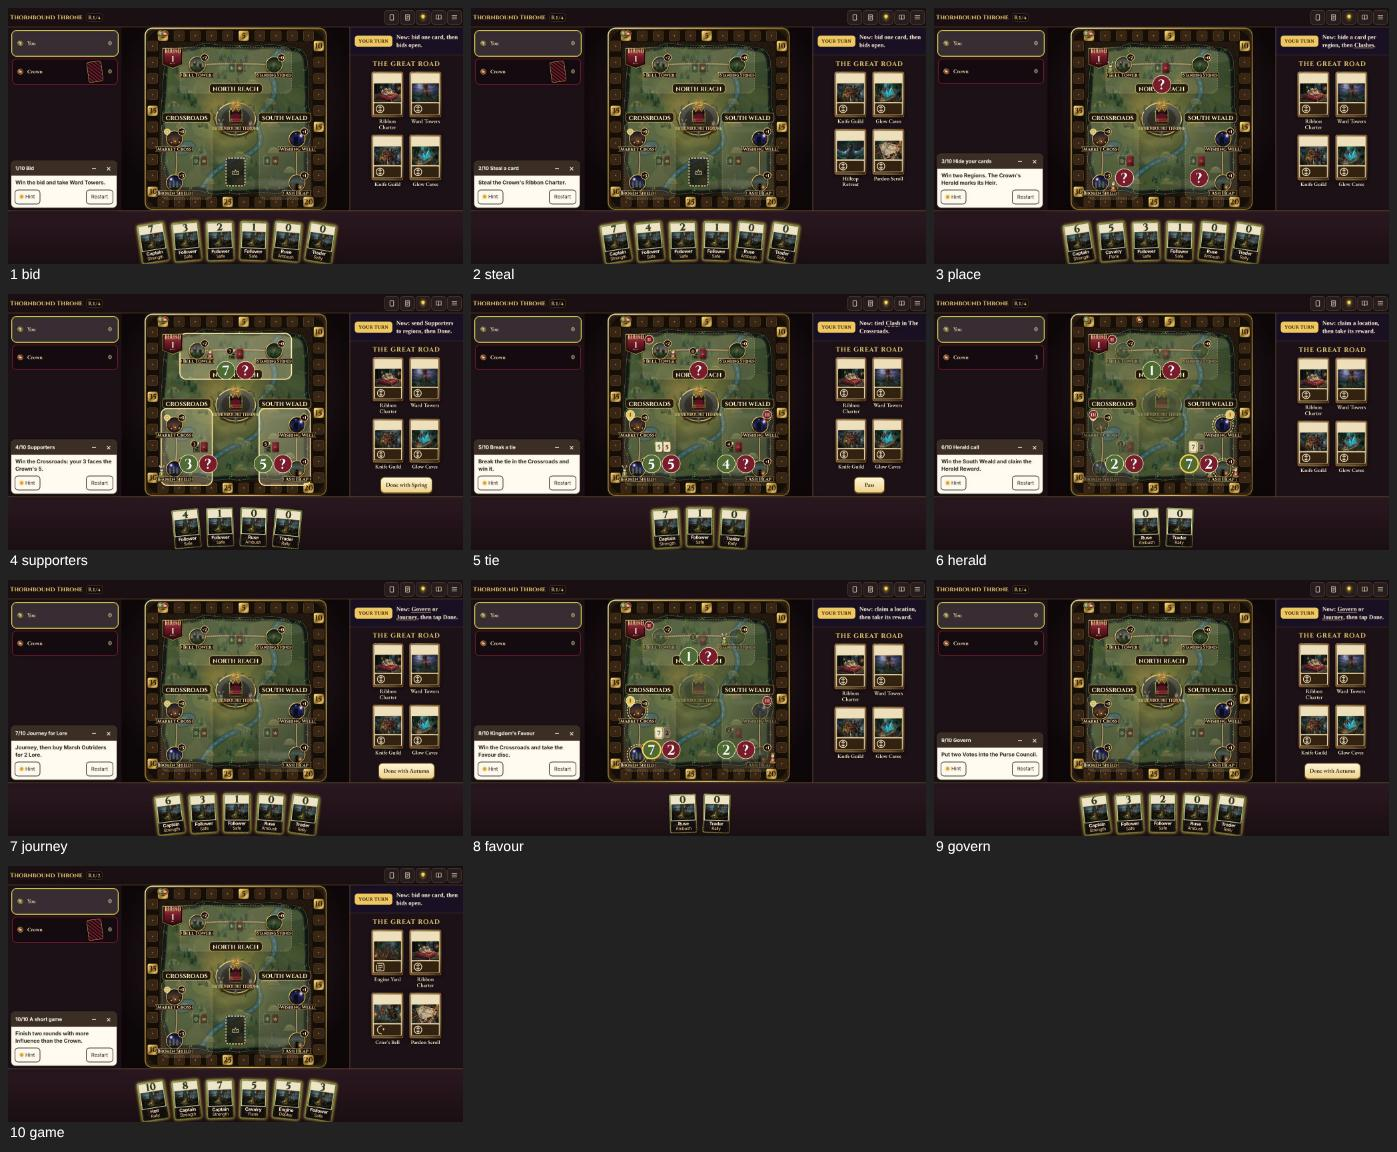
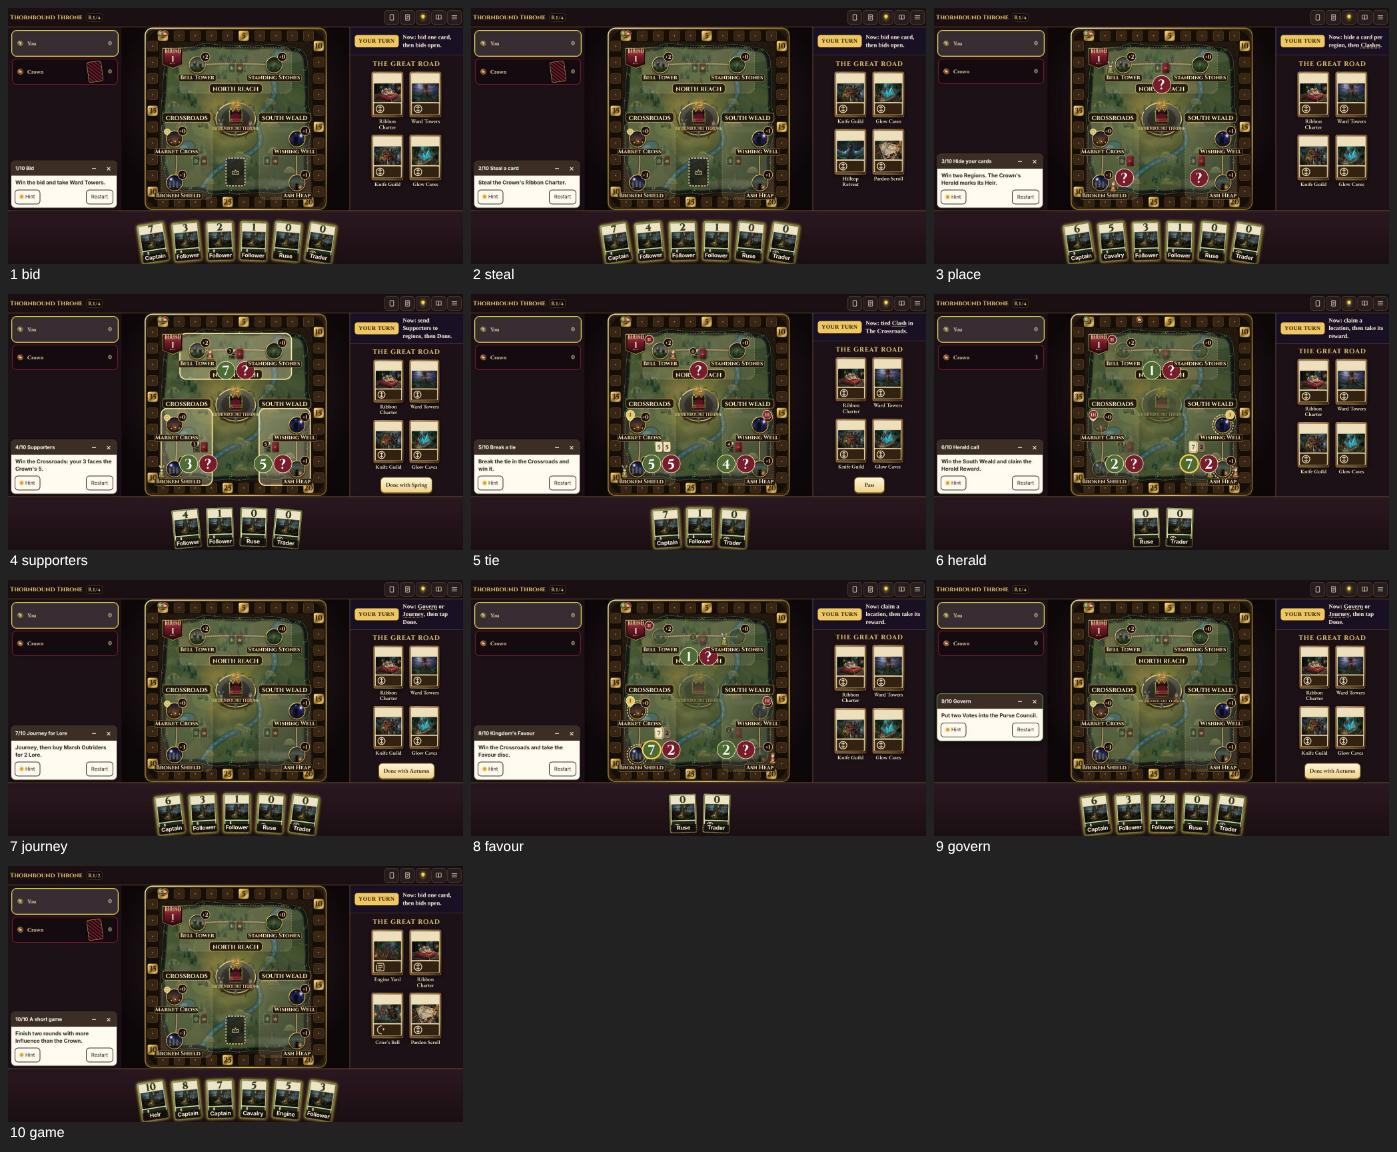
W754: thornbound readability pass: board labels and badges sized to screen, cost+name hand cards, larger bars and windows, pc windows clear of frame; proof sheets

diff --git a/games-src/thornbound/game/src/ui2.js b/games-src/thornbound/game/src/ui2.js
@@ -93,7 +93,8 @@ function sealOf(seat){const c=fcol(seat)||'';const m=/^#([0-9a-f]{6})$/i.exec(c)
 function drawOverlay(){const ov=MAP.ov,m=MAP.m;if(!ov||!m)return;const V=UI.V,f=[];
   // location reward coins (+1 / +2) and a favour disc marker
   for(let l=0;l<6;l++){const p=m.locPos(LOCID[l]),inf=DD.LOCS[l][2],k=UI.phone?1.2:1;
-    f.push('<g transform="translate('+(p.x+40*k)+' '+(p.y-40*k)+')"><circle r="'+(UI.phone?19:17)+'" fill="#1b0b10" stroke="#e8c867" stroke-width="2.6"/><text y="8" text-anchor="middle" font-family="'+TBKit.fonts.display+'" font-weight="700" font-size="'+(UI.phone?24:22)+'" fill="#fff0b8">+'+inf+'</text></g>');
+    const bf=Math.max(UI.phone?24:22,Math.ceil((UI.phone?14.5:16.5)*1000/(UI.bs||600))); // W754: influence badge reads >= 14px phone / 16px pc
+    f.push('<g transform="translate('+(p.x+(30+bf*.45)*k)+' '+(p.y-(30+bf*.45)*k)+')"><circle r="'+Math.round(bf*.82)+'" fill="#1b0b10" stroke="#e8c867" stroke-width="3"/><text y="'+Math.round(bf*.35)+'" text-anchor="middle" font-family="'+TBKit.fonts.display+'" font-weight="700" font-size="'+bf+'" fill="#fff0b8">+'+inf+'</text></g>');
     // council marker / favour
     if(l===2){const h=V.fav.h;const col=h>=0?fcol(h):'#e8c867';f.push('<g transform="translate('+(p.x-40*k)+' '+(p.y-40*k)+')"><circle r="'+(UI.phone?18:16)+'" fill="'+col+'" stroke="#fff3c4" stroke-width="2.6"/><path d="M0 -9 L2.6 -2.6 9 -2.6 3.8 1.6 5.8 8 0 4 -5.8 8 -3.8 1.6 -9 -2.6 -2.6 -2.6Z" fill="#fff6d0" stroke="#4a3208" stroke-width="1"/></g>')}
     // Kingdom Cards that sit on a Location
@@ -107,10 +108,10 @@ function drawOverlay(){const ov=MAP.ov,m=MAP.m;if(!ov||!m)return;const V=UI.V,f=
     for(let s=0;s<n;s++){const sp=V.pl[s].supp,cnt=sp.r[r]+sp.x[r];if(!cnt)continue;const c=s%cols,rw=Math.floor(s/cols);const x=S.cx-tw/2+c*(sw+gap)+sw/2,y=S.cy-th/2+rw*(sh+gap)+sh+(UI.phone?10:9);
       f.push('<g transform="translate('+x+' '+y+')"><circle r="'+(UI.phone?11:10)+'" fill="'+fcol(s)+'" stroke="#fff3c4" stroke-width="2"/><text y="5" text-anchor="middle" font-size="14" font-weight="700" fill="#fff" font-family="'+TBKit.fonts.display+'">'+cnt+'</text></g>')}}
   regionChips(f);
-  if(UI.phone&&(UI.bs||0)>=250){ // phones: the kit's banners are hidden, so every location gets a short name tag of its own
-    for(let l=0;l<6;l++){const P=LOCPOS[l],name=LOCN[l],fs=Math.max(36,Math.ceil(14.2*1000/(UI.bs||360))),words=name.split(' ');const lines=name.length*fs*.6+18>330&&words.length>1?[words[0],words.slice(1).join(' ')]:[name];
-      const wd=Math.max(...lines.map(t=>t.length))*fs*.6+18,ht=lines.length*fs+8;const cx=Math.max(wd/2+4,Math.min(996-wd/2,P[0])),top=P[1]+52;
-      f.push('<g class="locname"><rect x="'+Math.round(cx-wd/2)+'" y="'+top+'" width="'+Math.round(wd)+'" height="'+ht+'" rx="10" fill="#1d120b" fill-opacity=".82"/>'+lines.map((t,i)=>'<text x="'+Math.round(cx)+'" y="'+Math.round(top+(i+1)*fs-4)+'" text-anchor="middle" font-family="'+TBKit.fonts.display+'" font-weight="700" font-size="'+fs+'" fill="#f6e6b4">'+esc(t)+'</text>').join('')+'</g>')}}
+  if((UI.bs||0)>=250){ // the kit's banners are hidden (W754: on pc too, they were 13px), so every location gets a solid name tag of its own
+    for(let l=0;l<6;l++){const P=LOCPOS[l],name=LOCN[l],fs=Math.max(UI.phone?36:30,Math.ceil((UI.phone?14.5:16.5)*1000/(UI.bs||360))),words=name.split(' ');const lines=name.length*fs*.6+18>330&&words.length>1?[words[0],words.slice(1).join(' ')]:[name];
+      const wd=Math.max(...lines.map(t=>t.length))*fs*.6+18,ht=lines.length*fs+8;const cx=Math.max(wd/2+56,Math.min(944-wd/2,P[0])),top=P[1]+52; // W754: clear of the score track
+      f.push('<g class="locname"><rect x="'+Math.round(cx-wd/2)+'" y="'+top+'" width="'+Math.round(wd)+'" height="'+ht+'" rx="10" fill="#1d120b" fill-opacity=".9" stroke="#e8c867" stroke-opacity=".55" stroke-width="2"/>'+lines.map((t,i)=>'<text x="'+Math.round(cx)+'" y="'+Math.round(top+(i+1)*fs-4)+'" text-anchor="middle" font-family="'+TBKit.fonts.display+'" font-weight="700" font-size="'+fs+'" fill="#f6e6b4">'+esc(t)+'</text>').join('')+'</g>')}}
   ov.innerHTML=f.join('')}
 function setHl(ids,regs,rec){MAP.hl=ids||[];MAP.hlR=regs||[];MAP.rec=rec||{};applyHl()}
 function applyHl(){const m=MAP.m;if(!m)return;const sel=null;m.highlight(MAP.hl.map(l=>LOCID[l]));m.select(sel);
@@ -118,7 +119,7 @@ function applyHl(){const m=MAP.m;if(!m)return;const sel=null;m.highlight(MAP.hl.
   if(MAP.pan)MAP.pan.querySelectorAll('[data-reg]').forEach(g=>{const r=+g.getAttribute('data-reg');const on=(MAP.hlR||[]).includes(r);g.classList.toggle('rglow',on);g.classList.toggle('rrec',on&&MAP.rec.reg===r)});
   drawSelName()}
 // Phones: the kit's name banners are hidden (they were clipped and overlapped the region labels and reward coins). A tapped location shows its name here instead, in a spot with nothing else: below the circle in the top row and the upper half of the side columns, above it in the lower half.
-function drawSelName(){const g=MAP.sg;if(!g)return;if(UI.phone){g.innerHTML='';return}if(!UI.phone||UI.pop!=='loc'||!UI.popArg||UI.popArg.l==null){g.innerHTML='';return}
+function drawSelName(){const g=MAP.sg;if(!g)return;if(UI.phone||(UI.bs||0)>=250){g.innerHTML='';return} // W754: every location already carries its own name tagif(!UI.phone||UI.pop!=='loc'||!UI.popArg||UI.popArg.l==null){g.innerHTML='';return}
   const l=UI.popArg.l,P=LOCPOS[l],name=LOCN[l],fs=34,words=name.split(' ');let lines=[name];if(name.length>9&&words.length>1){const h=Math.ceil(words.length/2);lines=[words.slice(0,h).join(' '),words.slice(h).join(' ')]}
   const wd=Math.max(...lines.map(t=>t.length))*fs*.66+30,ht=lines.length*(fs+8)+14,below=l<2||l===2||l===4;let cx=P[0];cx=Math.max(wd/2+8,Math.min(1000-wd/2-8,cx));const top=below?P[1]+60:P[1]-60-ht;
   g.innerHTML='<g><rect x="'+Math.round(cx-wd/2)+'" y="'+Math.round(top)+'" width="'+Math.round(wd)+'" height="'+ht+'" rx="14" fill="#1d120b" fill-opacity=".92" stroke="#e8c867" stroke-width="3"/>'+lines.map((t,i)=>'<text x="'+Math.round(cx)+'" y="'+Math.round(top+7+(i+1)*(fs+8)-6)+'" text-anchor="middle" font-family="'+TBKit.fonts.display+'" font-weight="700" font-size="'+fs+'" fill="#f6e6b4">'+esc(t)+'</text>').join('')+'</g>'}

diff --git a/games-src/thornbound/game/skin.css b/games-src/thornbound/game/skin.css
@@ -129,3 +129,25 @@ html.desk:has(#main .opts) #road>*{visibility:hidden}
 .ppop:not([hidden]){max-height:min(86dvh,100dvh - 24px);overflow-y:auto;-webkit-overflow-scrolling:touch}
 .ppop:not([hidden])>*{flex-shrink:0}
 .ppop[data-kind=kc]:not([hidden]) .pp-row,.ppop[data-kind=card]:not([hidden]) .pp-row{flex-shrink:0}
+/* W754 readability pass (owner 24 Nov: "unreadable"): phone text >= 14px where the player decides, >= 12px elsewhere; pc >= 16px.
+   Solid plates behind text on the painting; hand cards show cost + name only (role is on the zoom). */
+.tb-map:not(.tb-compact) .tb-name{display:none}
+.tb-m-heralds text{display:none}
+.hcb i{display:none!important}
+.hcb b{font-size:14px!important;letter-spacing:-.3px!important}
+html.desk .hcb b{font-size:17px!important}
+html:not(.desk) #rivals .rv-t b{font-size:14px!important;letter-spacing:-.2px}
+html:not(.desk) .rv-n,html.ph .race-c.many .rv-n{font-size:20px!important;padding-right:2px}
+html:not(.desk) #cstrip .cs-c,html:not(.desk) #cstrip .cs-c b,html:not(.desk) #cstrip .cs-c span,html:not(.desk) #cstrip .cs-c em,html:not(.desk) #cstrip .cs-c i{font-size:15px!important}
+#cstrip .cs-c em{opacity:1!important;color:#f6e6b4}
+#cstrip .cs-c{background:rgba(20,10,8,.92)}
+html:not(.bf-w) body #tbturn .tbt-chip{font-size:15px!important}
+html.desk body #tbturn .tbt-chip,html.desk #rivals .rv-t b,html.desk #cstrip .cs-c,html.desk #cstrip .cs-c *{font-size:17px!important}
+html.desk .gxc-lab,html.desk .gxc-node small,html.desk .gxc-node b{font-size:17px!important}
+.gxc-lab{background:rgba(20,10,8,.9);color:#f6e6b4;padding:3px 8px;border-radius:8px}
+html.desk .ppop small,html.desk .ppop .hint,html.desk .ppop p,html.desk .ppop li,html.desk .ppop span{font-size:17px!important;line-height:1.4}
+html:not(.desk) .ppop small,html:not(.desk) .ppop .hint,html:not(.desk) .ppop p,html:not(.desk) .ppop li{font-size:15px!important;line-height:1.4}
+html.desk .gxc-act b,html.desk .gxc-act small,html.desk .gxc-sc-title,html.desk .ovwhy li,html.desk .ovwhy li span{font-size:17px!important}
+.gxc-act small{opacity:1!important}
+#rivals .rv-t b{line-height:1.3!important;padding-block:1px}
+html.desk .ppop:not([hidden]){padding-left:64px!important;padding-right:64px!important}

diff --git a/games-src/thornbound/game/scn.js b/games-src/thornbound/game/scn.js
@@ -137,7 +137,7 @@
   });
   GXS.add({
     id: 'tb-over', name: 'End card with the 3D crown', ask: 'Is the crown on the end card?', seed: 8, when: booted, group: 'Art',
-    setup: function () { return table(8).then(function () { G.over = { winner: 0, ranking: G.pl.map(function (q) { return q.seat; }), scores: G.pl.map(function (q) { return q.inf; }), bonus: {}, tieBreak: null }; showOver(); renderAll(); return new Promise(function (r) { setTimeout(r, 1200); }); }); },
+    setup: function () { return table(8).then(function () { G.pl.forEach(function (q, i) { q.inf = [31, 26, 22, 18][i]; }); /* W754: a real final score, not a row of zeros */ G.over = { winner: 0, ranking: G.pl.map(function (q) { return q.seat; }), scores: G.pl.map(function (q) { return q.inf; }), bonus: {}, tieBreak: null }; showOver(); renderAll(); return new Promise(function (r) { setTimeout(r, 1200); }); }); },
     checks: [{ kind: 'fn', name: 'the crown is on the end card (3D canvas or the @512 picture)', fn: function () { return !!document.querySelector('.crown3') || 'no crown on the end card'; } }]
   });
 })();

diff --git a/games-src/HANDOFF.md b/games-src/HANDOFF.md
@@ -2,6 +2,10 @@
 
 Older notes (everything from "Nightrun TIMING" down, and all shelf-wide history) moved to games-src/HANDOFF-ARCHIVE.md on 21 Oct 2026. Nothing was deleted.
 
+## W754 thornbound readability (24 Nov 2026, branch shelf/W754-thornbound-read, merged W753)
+Done: board influence badges and location tags sized from board scale (>= 14px phone, >= 16px pc, solid plates, kit banners off on pc too), herald 5px digits hidden, hand cards show cost + name only (14px phone / 17px pc), rival bar, Favour/Tactics, turn chip, story map, end list and windows raised; pc windows padded clear of the painted frame; tb-over fixture shows real scores. Small-text cells phone 9 -> 0 (12px) and 8 -> 1 (14px); pc 11 -> 1. Proof: thornbound/proof/w754-*.
+Still weak: card zoom keeps the kit card's own 13.5px "2 votes" ribbon (kit is read-only; the rule text below the card is large). ?scn= phone+pc: 4-5 fails, all also on a clean source build or live: shelf-face fonts + campaign gxc-ib frame (menu), tb-art Close under the Menu drawer, flaky "hc glow pl did not respond to a tap".
+
 ## New games: pick only from the top ranked board games (owner, 7 Nov 2026: "I want top board games from now on")
 
 - Suggest and build new shelf games only from the current top of the overall board game rankings, not niche picks. Owner chooses from the list.
